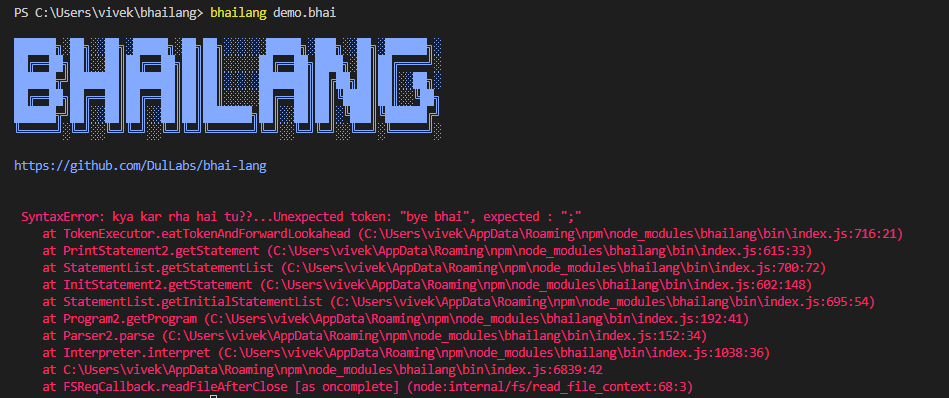
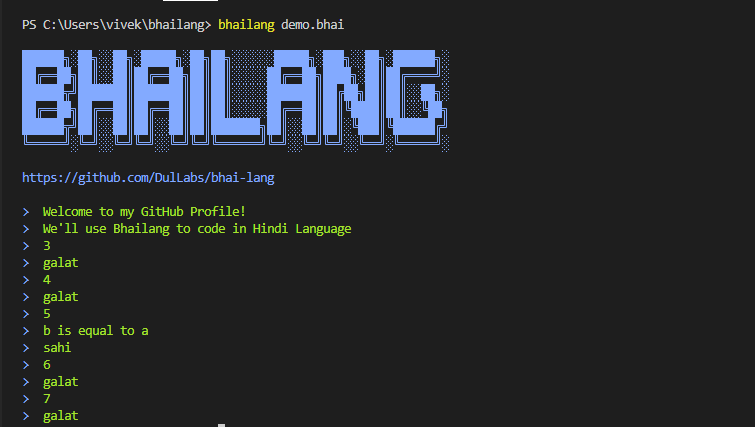
updated screenshots

Changed region(s): [[0.0305, 0.4824, 0.9748, 1.0], [0.0, 0.0, 0.6093, 0.3618], [0.0, 0.392, 0.3656, 0.4523]]

diff --git a/README.md b/README.md
@@ -38,17 +38,11 @@ The language has its own [website](https://bhailang.js.org/) and [GitHub page](h
 
 ## Usage/Examples
 
-In this example, we will declare a few variables and explore the use of conditions and loops along with few other functionalities in Bhailang. 
+In this example, we will declare a few variables and explore the use of conditions and loops in Bhailang. 
 
-1. Starting with a simple example. 
-<!-- <img alt="1" width="30px" src="./img/python.png" hspace="8"/> -->
-<img alt="1" width="400px" src="./screenshots/1.png" />
+<img alt="1" src="./screenshots/1.png" />
 
-You'll get an interesting error: **kya kar rha hai tu??**. Now, adding ";" after the print statement the error is resolved.
-
-<img alt="2" width="800px" src="./screenshots/2.png" />
-
-
+<img alt="2" src="./screenshots/2.png" />
 
 
 
